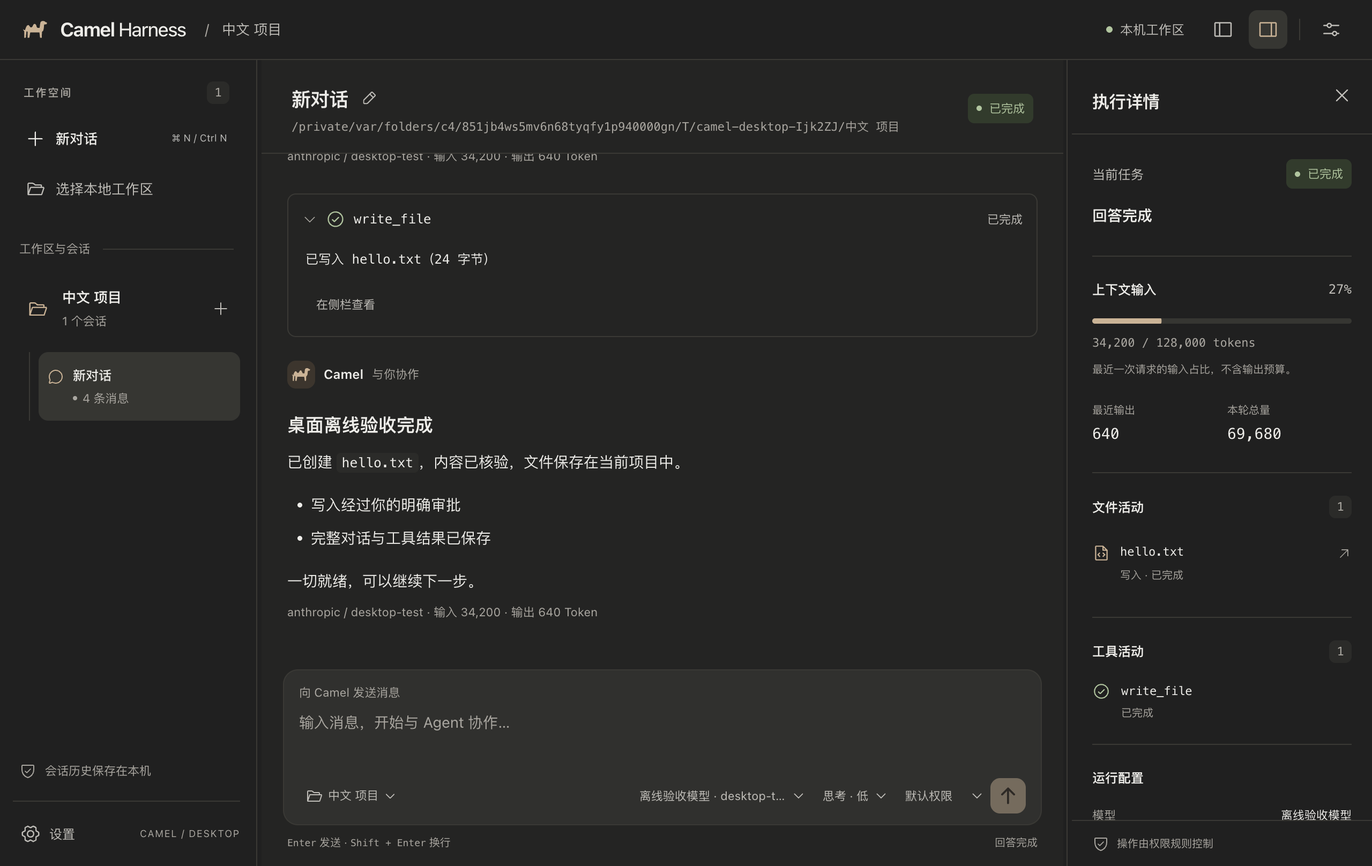
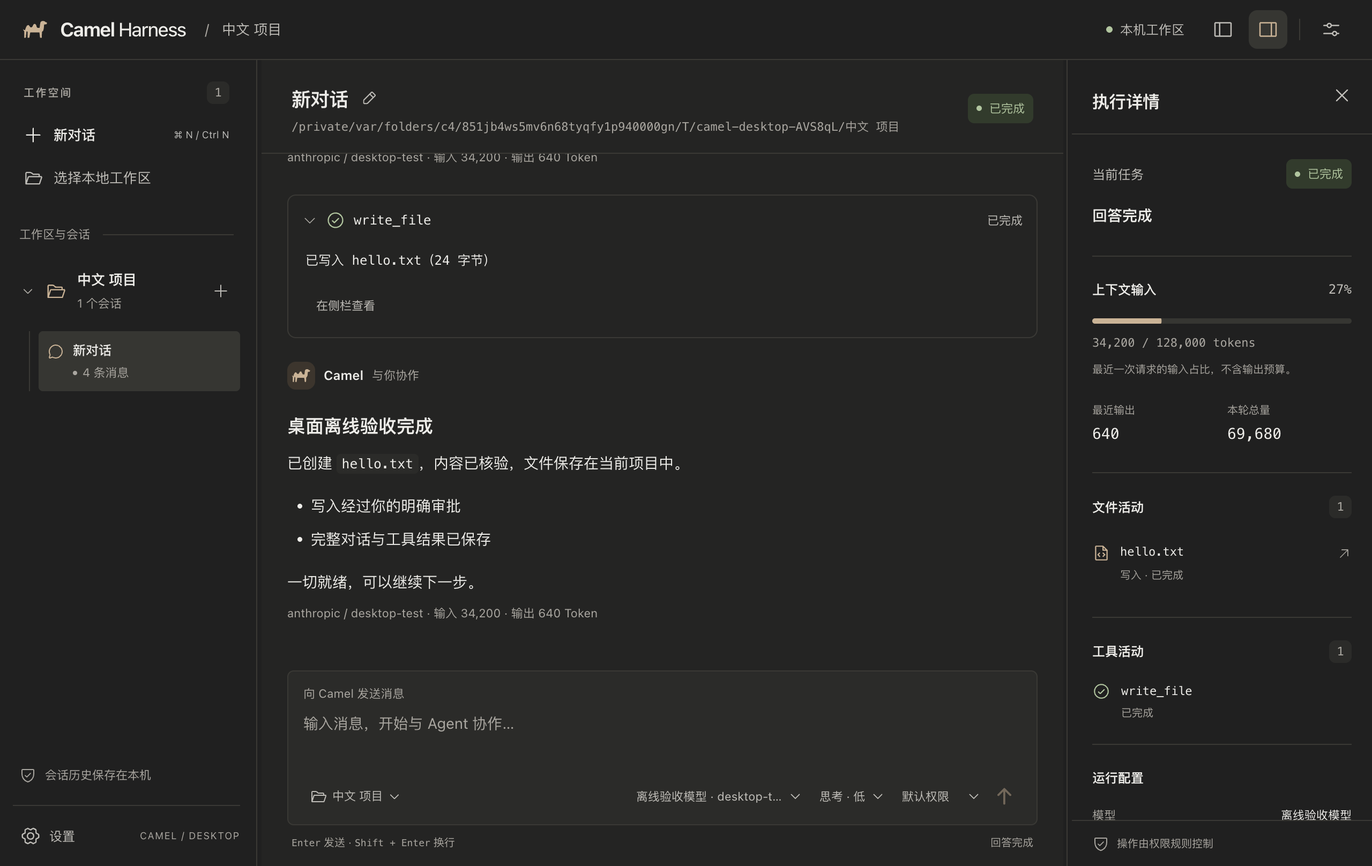
fix(desktop): 扁平化控件并稳定对话与设置布局

diff --git a/desktop/renderer/src/app/desktop.css b/desktop/renderer/src/app/desktop.css
@@ -1,5 +1,5 @@
 /* 三栏只承担阅读与导航；侧栏收起和动画不会改变任务生命周期。 */
-.app-shell { display: grid; grid-template-rows: 56px minmax(0, 1fr); height: 100%; }
+.app-shell { --conversation-gutter: 24px; display: grid; grid-template-rows: 56px minmax(0, 1fr); height: 100%; }
 .app-topbar { display: flex; align-items: center; gap: 18px; min-width: 0; padding: 0 20px; border-bottom: 1px solid var(--border); background: var(--canvas); }
 .app-brand { display: flex; align-items: center; gap: 10px; flex: 0 0 auto; }.app-brand strong { font-size: 18px; font-weight: 650; letter-spacing: -.035em; }.app-brand strong span { font-weight: 450; }
 .app-brand-mark { display: grid; place-items: center; width: 26px; height: 30px; color: var(--accent); }.app-brand-mark svg { width: 25px; height: 22px; }
@@ -20,46 +20,49 @@
 .divider-popover { position: fixed; top: 80px; margin: 0; width: 190px; padding: 12px; border: 1px solid var(--border); border-radius: 10px; background: var(--surface); color: var(--text); box-shadow: var(--shadow-dialog); }
 .divider-popover > span { display: block; margin-bottom: 6px; color: var(--secondary); font-size: 12px; }
 .divider-popover > div { display: flex; gap: 6px; }
-.composer-right select:hover { background: var(--surface-subtle); }
+.composer-right select:hover { background: var(--surface-hover); }
 .sidebar-container, .main-area, .inspector-host { min-width: 0; min-height: 0; background: var(--surface); }
+.sidebar button:active:not(:disabled), .composer-area button:active:not(:disabled) { transform: none; }
 .sidebar-container { background: var(--canvas); overflow: hidden; animation: nav-in var(--motion-enter) var(--ease-out); }
 .sidebar { display: flex; flex-direction: column; height: 100%; min-height: 0; padding: 20px 12px 12px; }
 .sidebar-heading { display: flex; justify-content: space-between; align-items: center; padding: 0 10px; margin-bottom: 12px; }
-.new-chat, .new-workspace { display: flex; align-items: center; gap: 10px; width: 100%; min-height: 40px; padding: 10px 12px; border-radius: 9px; font-size: 13px; }
+.new-chat, .new-workspace { display: flex; align-items: center; gap: 10px; width: 100%; min-height: 34px; padding: 6px 10px; border-radius: 4px; font-size: 13px; }
 .new-chat { color: var(--text); font-weight: 500; }.new-chat:hover { background: var(--surface-hover); }.shortcut-key { margin-left: auto; opacity: .75; font-size: 9px; font-weight: 400; white-space: nowrap; }
 .new-workspace { margin-top: 6px; color: var(--secondary); }.new-workspace:hover { background: var(--surface-hover); color: var(--text); }
 .workspace-heading { display: flex; align-items: center; gap: 12px; padding: 0 6px; margin: 27px 0 13px; color: var(--muted); font-size: 11px; }.sidebar-section-rule { height: 1px; flex: 1; background: var(--border); }
 .workspace-list { flex: 1; min-height: 0; overflow-y: auto; scrollbar-width: thin; scrollbar-color: var(--border) transparent; }
-.workspace-group { margin-bottom: 12px; }.workspace-row { display: flex; align-items: center; min-width: 0; padding: 5px 4px; border-radius: 10px; }.workspace-group.active .workspace-row { background: transparent; }
-.workspace-select { display: flex; align-items: center; flex: 1; gap: 9px; min-width: 0; padding: 8px 5px; text-align: left; border-radius: 7px; }.workspace-select:hover { color: var(--accent); }.workspace-folder { display: grid; place-items: center; width: 28px; height: 30px; color: var(--accent); }
+.workspace-group { margin-bottom: 12px; }.workspace-row { display: flex; align-items: center; min-width: 0; padding: 4px; border-radius: 4px; }.workspace-group.active .workspace-row { background: transparent; }
+.workspace-select { display: flex; align-items: center; flex: 1; gap: 9px; min-width: 0; padding: 6px 4px; text-align: left; border-radius: 4px; }.workspace-select:hover { color: var(--accent); }.workspace-folder { display: grid; place-items: center; width: 22px; height: 26px; color: var(--accent); }
 .workspace-copy, .session-copy { display: grid; gap: 3px; min-width: 0; }.workspace-copy strong { font-size: 13px; font-weight: 600; overflow: hidden; white-space: nowrap; text-overflow: ellipsis; }.workspace-copy small { color: var(--muted); font-size: 11px; }
 .workspace-chevron { color: var(--muted); transition: transform var(--motion-fast); }
 .workspace-select[aria-expanded="true"] .workspace-chevron { transform: rotate(90deg); }
 .workspace-action.icon-button { width: 28px; height: 30px; flex: 0 0 auto; }
-.session-list { display: grid; gap: 5px; margin-top: 7px; padding-left: 8px; border-left: 1px solid var(--border); margin-left: 15px; }
-.session-item { position: relative; display: flex; align-items: center; min-width: 0; border-radius: 9px; }.session-item:hover { background: var(--surface-subtle); }.session-item.active { background: var(--surface-hover); }
-.session-select { display: flex; align-items: flex-start; gap: 8px; min-width: 0; flex: 1; padding: 12px 8px; text-align: left; border-radius: 8px; }.session-select > svg { margin-top: 3px; color: var(--muted); }.session-item.active .session-select > svg { color: var(--accent); }
+.session-list { display: grid; gap: 3px; margin-top: 7px; padding-left: 8px; border-left: 1px solid var(--border); margin-left: 15px; }
+.session-item { position: relative; display: flex; align-items: center; min-width: 0; border-radius: 4px; }.session-item:hover { background: var(--surface-subtle); }.session-item.active { background: var(--surface-hover); }
+.session-select { display: flex; align-items: flex-start; gap: 8px; min-width: 0; flex: 1; padding: 8px; text-align: left; border-radius: 4px; }.session-select > svg { margin-top: 3px; color: var(--muted); }.session-item.active .session-select > svg { color: var(--accent); }
 .session-copy strong { font-size: 12px; font-weight: 500; white-space: nowrap; overflow: hidden; text-overflow: ellipsis; }.session-status { display: flex; align-items: center; gap: 5px; color: var(--muted); font-size: 11px; }
 .session-dot { width: 4px; height: 4px; border-radius: 50%; background: var(--muted); }.session-dot.running { background: var(--accent); }.session-dot.waiting { background: var(--warning); }.session-dot.unread { background: var(--success); }
-.session-actions { display: none; align-items: center; position: absolute; right: 4px; top: 4px; height: 28px; padding-left: 6px; border-radius: 7px; background: var(--surface-subtle); }.session-item.active .session-actions { background: var(--surface-hover); }.session-item:hover .session-actions, .session-item:focus-within .session-actions { display: flex; }.session-actions .icon-button { width: 26px; height: 28px; }.session-delete:hover { color: var(--danger); }
+.session-actions { display: none; align-items: center; position: absolute; right: 4px; top: 4px; height: 28px; padding-left: 6px; border-radius: 4px; background: var(--surface-subtle); }.session-item.active .session-actions { background: var(--surface-hover); }.session-item:hover .session-actions, .session-item:focus-within .session-actions { display: flex; }.session-actions .icon-button { width: 26px; height: 28px; }.session-delete:hover { color: var(--danger); }
 .empty-workspaces { display: grid; justify-items: center; gap: 10px; padding: 32px 6px; color: var(--muted); text-align: center; }.empty-workspaces strong { font-size: 13px; font-weight: 500; }.empty-workspaces p { font-size: 12px; line-height: 1.9; }
-.sidebar-local-note { display: flex; align-items: center; gap: 8px; padding: 15px 6px 19px; color: var(--muted); font-size: 11px; }.sidebar-footer { display: flex; justify-content: space-between; align-items: center; padding-top: 12px; border-top: 1px solid var(--border); }.settings-entry { display: flex; align-items: center; gap: 8px; min-height: 36px; padding: 6px 7px; border-radius: 8px; font-size: 12px; color: var(--secondary); }.settings-entry:hover { background: var(--surface-hover); }.sidebar-note { font-size: 9px; letter-spacing: .08em; color: var(--muted); }
+.sidebar-local-note { display: flex; align-items: center; gap: 8px; padding: 15px 6px 19px; color: var(--muted); font-size: 11px; }.sidebar-footer { display: flex; justify-content: space-between; align-items: center; padding-top: 12px; border-top: 1px solid var(--border); }.settings-entry { display: flex; align-items: center; gap: 8px; min-height: 32px; padding: 4px 7px; border-radius: 4px; font-size: 12px; color: var(--secondary); }.settings-entry:hover { background: var(--surface-hover); }.sidebar-note { font-size: 9px; letter-spacing: .08em; color: var(--muted); }
 
-.main-area { display: flex; flex-direction: column; height: 100%; overflow: hidden; position: relative; transform-origin: left center; }
+.main-area { container-type: inline-size; display: flex; flex-direction: column; height: 100%; overflow: hidden; position: relative; transform-origin: left center; }
+/* 按主栏内容宽度计算，系统滚动条占位也不改变消息和输入框的对齐。 */
+.main-area .messages-inner, .composer-area { width: min(760px, calc(100cqw - var(--conversation-gutter) * 2)); margin-left: max(var(--conversation-gutter), calc((100cqw - 760px) / 2)); margin-right: 0; }
 .main-header { display: flex; align-items: center; gap: 12px; padding: 20px 28px 16px; border-bottom: 1px solid var(--border); flex: 0 0 auto; }
 .main-header-meta { min-width: 0; flex: 1; }.main-header-title-row { display: flex; align-items: center; gap: 7px; }.main-header-title { margin: 2px 0 0; font-size: 18px; line-height: 1.6; font-weight: 600; letter-spacing: -.025em; overflow: hidden; text-overflow: ellipsis; white-space: nowrap; }.header-rename.icon-button { height: 26px; width: 26px; flex: 0 0 auto; }.main-header-sub { max-width: 100%; margin-top: 3px; color: var(--muted); font: 11px/1.5 var(--font-mono); overflow: hidden; text-overflow: ellipsis; white-space: nowrap; }
 .run-status { display: inline-flex; align-items: center; gap: 7px; flex: 0 0 auto; white-space: nowrap; padding: 5px 8px; border-radius: 6px; font-size: 11px; color: var(--secondary); background: var(--surface-subtle); }.run-status-dot { width: 5px; height: 5px; border-radius: 50%; background: currentColor; }.run-status[data-state="running"] { color: var(--success); background: var(--success-bg); }.run-status[data-state="running"][role="status"] .run-status-dot { animation: soft-pulse 1500ms ease-in-out infinite; }.run-status[data-state="waiting"] { color: var(--warning); background: var(--warning-bg); }.run-status[data-state="failed"] { color: var(--danger); background: var(--danger-bg); }.run-status[data-state="completed"] { color: var(--success); background: var(--success-bg); }
 .model-onboarding { display: flex; justify-content: space-between; align-items: center; gap: 16px; padding: 14px 18px; margin: 18px 24px 0; border: 1px solid var(--border); border-radius: 12px; background: var(--surface-subtle); }.model-onboarding strong { font-size: 13px; }.model-onboarding p { margin: 3px 0 0; font-size: 12px; color: var(--secondary); }.model-onboarding button { flex: 0 0 auto; }
 .messages { flex: 1; min-height: 0; overflow-y: auto; overflow-x: hidden; scrollbar-width: thin; scrollbar-color: var(--border) transparent; }.messages-inner { width: calc(100% - 48px); max-width: 760px; margin: 0 auto; padding: 26px 0 10px; }.messages-inner > :last-child { animation: message-in var(--motion-enter) var(--ease-out); }
-.message { margin-bottom: 26px; }.message-content { white-space: pre-wrap; overflow-wrap: anywhere; font-size: 14px; line-height: 1.85; }.markdown-body { white-space: normal; }.message.user { display: flex; flex-direction: column; align-items: flex-end; }.message.user .message-content { max-width: 90%; padding: 12px 17px; border-radius: 14px; background: var(--surface-subtle); }.message-meta { margin-top: 8px; font-size: 11px; color: var(--muted); }.assistant-identity { display: flex; align-items: center; gap: 8px; margin-bottom: 12px; }.assistant-identity > span { display: grid; place-items: center; width: 26px; height: 26px; border-radius: 8px; background: var(--accent-soft); color: var(--accent); }.assistant-identity svg { width: 19px; height: 17px; }.assistant-identity strong { font-size: 12px; font-weight: 600; }.assistant-identity small { color: var(--muted); font-size: 11px; }
+.message { margin-bottom: 26px; }.message-content { white-space: pre-wrap; overflow-wrap: anywhere; font-size: 14px; line-height: 1.85; }.markdown-body { white-space: normal; }.message.user { display: flex; flex-direction: column; align-items: flex-end; }.message.user .message-content { max-width: 90%; padding: 12px 17px; border-radius: 6px; background: var(--surface-subtle); }.message-meta { margin-top: 8px; font-size: 11px; color: var(--muted); }.assistant-identity { display: flex; align-items: center; gap: 8px; margin-bottom: 12px; }.assistant-identity > span { display: grid; place-items: center; width: 26px; height: 26px; border-radius: 8px; background: var(--accent-soft); color: var(--accent); }.assistant-identity svg { width: 19px; height: 17px; }.assistant-identity strong { font-size: 12px; font-weight: 600; }.assistant-identity small { color: var(--muted); font-size: 11px; }
 .waiting-dots { color: var(--accent); font-size: 22px; letter-spacing: .16em; animation: soft-pulse 1200ms ease-in-out infinite; }
 .welcome { display: flex; flex-direction: column; align-items: center; padding: 10px 0 12px; text-align: center; }.welcome-camel { width: 40px; height: 34px; margin: 8px 0 18px; color: var(--accent); }.welcome h2 { margin: 10px 0; font-size: clamp(24px, 2.3vw, 28px); font-weight: 550; letter-spacing: -.035em; }.welcome > p { margin: 0; color: var(--secondary); font-size: 13px; line-height: 1.75; }.welcome-prompts { display: grid; grid-template-columns: repeat(3, minmax(0, 1fr)); gap: 9px; width: 100%; margin-top: 20px; }.welcome-prompts button { display: flex; align-items: flex-start; gap: 9px; padding: 12px 11px; min-width: 0; border-radius: 8px; color: var(--secondary); text-align: left; }.welcome-prompts button:hover { background: var(--surface-subtle); color: var(--accent); }.welcome-prompts button > svg { margin-top: 2px; }.welcome-prompts button > svg:last-child { margin-left: auto; }.welcome-prompts span { color: var(--text); font-size: 12px; font-weight: 550; }.welcome-prompts small { display: block; margin-top: 4px; color: var(--muted); font-size: 11px; font-weight: 400; white-space: nowrap; }.welcome-action { display: inline-flex; align-items: center; gap: 7px; margin-top: 10px; padding: 6px 10px; border-radius: 6px; color: var(--muted); font-size: 11px; }.welcome-action:hover { color: var(--accent); background: var(--surface-subtle); }
 .thinking-message { margin: 0 0 16px; color: var(--muted); }.thinking-message > summary { display: flex; gap: 6px; align-items: center; width: fit-content; cursor: pointer; list-style: none; font-size: 12px; padding: 4px 0; }.thinking-chevron { transition: transform var(--motion-fast); }.thinking-message[open] .thinking-chevron { transform: rotate(90deg); }.thinking-detail { margin-top: 8px; padding: 0 12px; border-left: 2px solid var(--border); max-height: 220px; overflow-y: auto; font-size: 12px; line-height: 1.85; white-space: pre-wrap; animation: message-in var(--motion-base) var(--ease-out); }.thinking-shimmer { color: var(--accent); }
 .tool-message { margin: 8px 0 22px; overflow: hidden; border: 1px solid var(--border); border-radius: 8px; background: transparent; }.tool-message > summary { display: flex; align-items: center; gap: 8px; min-width: 0; min-height: 46px; padding: 11px 13px; cursor: pointer; list-style: none; font-size: 12px; }.tool-message > summary:hover { background: var(--surface-hover); }.tool-message strong { font-family: var(--font-mono); font-size: 12px; font-weight: 500; overflow-wrap: anywhere; }.tool-chevron { color: var(--muted); transition: transform var(--motion-fast); }.tool-message[open] .tool-chevron { transform: rotate(90deg); }.tool-symbol { color: var(--success); }.tool-state { margin-left: auto; color: var(--secondary); font-size: 11px; white-space: nowrap; }.tool-message.error .tool-symbol, .tool-message.error .tool-state { color: var(--danger); }.tool-detail { padding: 4px 16px 16px; white-space: pre-wrap; overflow-wrap: anywhere; font: 12px/1.8 var(--font-mono); max-height: 280px; overflow: auto; }.tool-open { display: inline-flex; align-items: center; min-height: 30px; margin: 0 16px 14px; padding: 4px 10px; border-radius: 6px; color: var(--secondary); font-size: 11px; }.tool-open:hover { color: var(--accent); background: var(--surface-subtle); }
 .approval-message { margin: 8px 0 24px; padding: 17px; border: 1px solid var(--warning-border); border-radius: 13px; background: var(--warning-bg); }.approval-message-head { display: flex; align-items: center; gap: 10px; }.approval-message-icon { display: grid; place-items: center; width: 33px; height: 33px; border-radius: 10px; color: var(--warning); background: var(--surface); }.approval-message-head > div { flex: 1; min-width: 0; display: grid; gap: 2px; }.approval-message-head strong { font-size: 13px; }.approval-message-head small { color: var(--secondary); font: 11px var(--font-mono); overflow-wrap: anywhere; }.approval-message-status { font-size: 11px; color: var(--warning); }.approval-message p { font-size: 13px; margin: 14px 0; overflow-wrap: anywhere; }.approval-execution strong { font-size: 11px; color: var(--secondary); }.approval-execution pre, .approval-arguments pre { margin: 6px 0 14px; padding: 10px 12px; border: 1px solid var(--border); border-radius: 8px; background: var(--surface); white-space: pre-wrap; overflow-wrap: anywhere; font: 12px/1.7 var(--font-mono); }.approval-arguments { font-size: 12px; color: var(--secondary); }.approval-arguments summary { padding: 5px 0; cursor: pointer; }.approval-arguments pre { max-height: 220px; overflow: auto; }.approval-message-actions { display: flex; justify-content: flex-end; gap: 8px; margin-top: 16px; }.approval-message-actions button { min-height: 34px; padding: 7px 14px; border: 1px solid var(--control-border); border-radius: 7px; background: var(--surface); color: var(--text); font-size: 12px; }.approval-message-actions .allow { background: var(--accent); border-color: var(--accent); color: var(--on-accent); }.approval-approved, .approval-completed { background: var(--success-bg); border-color: var(--success-border); }.approval-approved .approval-message-status, .approval-completed .approval-message-status { color: var(--success); }.approval-rejected, .approval-failed { background: var(--danger-bg); border-color: var(--danger-border); }.approval-rejected .approval-message-status, .approval-failed .approval-message-status { color: var(--danger); }
 .subagent-summaries { display: grid; gap: 9px; margin: 10px 0 23px; }.subagent-summary { display: grid; gap: 5px; padding: 14px 16px; text-align: left; border-left: 2px solid var(--border); border-radius: 0 8px 8px 0; }.subagent-summary:hover { background: var(--surface-subtle); }.subagent-summary strong { color: var(--accent); font-size: 12px; }.subagent-summary span { font-size: 13px; overflow-wrap: anywhere; }.subagent-summary small { color: var(--muted); font-size: 11px; }
-.composer-area { flex: 0 0 auto; padding: 8px 20px 14px; }.composer-box { padding: 12px 14px 10px; border: 1px solid var(--border); border-radius: 14px; background: var(--surface-raised); transition: border-color var(--motion-fast), box-shadow var(--motion-fast); }.composer-box:focus-within { border-color: var(--accent); box-shadow: 0 0 0 3px var(--accent-soft); }.composer-box:has(textarea:focus-visible) { outline: 2px solid var(--accent); outline-offset: 2px; }
-.composer-label { display: block; margin-bottom: 3px; font-size: 11px; color: var(--muted); }.composer-box textarea { display: block; width: 100%; min-height: 58px; max-height: 180px; padding: 4px 0; border: 0; outline: 0; resize: none; background: transparent; color: var(--text); font-size: 14px; line-height: 1.7; }.composer-box textarea:focus-visible { outline: none; }.composer-box textarea::placeholder { color: var(--muted); }.composer-toolbar { display: flex; align-items: center; flex-wrap: wrap; gap: 9px; margin-top: 10px; }.composer-directory { display: inline-flex; align-items: center; gap: 5px; min-height: 31px; max-width: 32%; padding: 5px 6px; border-radius: 6px; color: var(--secondary); font-size: 11px; }.composer-directory span { overflow: hidden; text-overflow: ellipsis; white-space: nowrap; }.composer-directory:hover { background: var(--surface-subtle); color: var(--accent); }.composer-right { display: flex; flex: 1; justify-content: flex-end; align-items: center; gap: 6px; flex-wrap: wrap; }.composer-right select { min-width: 0; max-width: 115px; min-height: 31px; padding: 4px 5px; border: 1px solid transparent; border-radius: 6px; background: transparent; color: var(--secondary); font-size: 11px; text-overflow: ellipsis; }.composer-right .model-select { max-width: 165px; }.composer-right .send-button, .composer-right .stop-button { display: inline-grid; place-items: center; width: 33px; height: 33px; padding: 0; border-radius: 9px; flex: 0 0 auto; }.send-button { background: var(--accent); color: var(--on-accent); }.stop-button { color: var(--danger); background: var(--danger-bg); }.composer-right > button:not(.send-button, .stop-button) { display: inline-flex; gap: 5px; align-items: center; padding: 5px 8px; font-size: 12px; border-radius: 6px; background: var(--surface-subtle); }.composer-hint { display: flex; align-items: center; justify-content: space-between; gap: 8px; margin: 8px 4px 0; color: var(--muted); font-size: 10px; }.composer-hint > span:last-child { max-width: 42%; white-space: nowrap; overflow: hidden; text-overflow: ellipsis; }.composer-hint kbd { font-size: 9px; }.status-running { color: var(--accent); }
+.composer-area { flex: 0 0 auto; padding: 8px 0 14px; }.composer-box { padding: 12px 14px 10px; border: 1px solid var(--border); border-radius: 6px; background: var(--surface-subtle); transition: border-color var(--motion-fast); }.composer-box:focus-within { border-color: var(--accent); }.composer-box:has(textarea:focus-visible) { outline: 2px solid var(--accent); outline-offset: -1px; }
+.composer-label { display: block; margin-bottom: 3px; font-size: 11px; color: var(--muted); }.composer-box textarea { display: block; width: 100%; min-height: 58px; max-height: 180px; padding: 4px 0; border: 0; outline: 0; resize: none; background: transparent; color: var(--text); font-size: 14px; line-height: 1.7; }.composer-box textarea:focus-visible { outline: none; }.composer-box textarea::placeholder { color: var(--muted); }.composer-toolbar { display: flex; align-items: center; flex-wrap: wrap; gap: 9px; margin-top: 10px; }.composer-directory { display: inline-flex; align-items: center; gap: 5px; min-height: 31px; max-width: 32%; padding: 5px 6px; border-radius: 6px; color: var(--secondary); font-size: 11px; }.composer-directory span { overflow: hidden; text-overflow: ellipsis; white-space: nowrap; }.composer-directory:hover { background: var(--surface-subtle); color: var(--accent); }.composer-right { display: flex; flex: 1; justify-content: flex-end; align-items: center; gap: 6px; flex-wrap: wrap; }.composer-right select { min-width: 0; max-width: 115px; min-height: 31px; padding: 4px 5px; border: 1px solid transparent; border-radius: 6px; background: transparent; color: var(--secondary); font-size: 11px; text-overflow: ellipsis; }.composer-right .model-select { max-width: 165px; }.composer-right .send-button, .composer-right .stop-button { display: inline-grid; place-items: center; width: 32px; height: 32px; padding: 0; border-radius: 4px; flex: 0 0 auto; }.send-button { color: var(--accent); }.send-button:hover:not(:disabled) { background: var(--accent-soft); }.stop-button { color: var(--danger); }.stop-button:hover:not(:disabled) { background: var(--danger-bg); }.composer-right > button:not(.send-button, .stop-button) { display: inline-flex; gap: 5px; align-items: center; padding: 5px 8px; font-size: 12px; border-radius: 6px; background: var(--surface-subtle); }.composer-hint { display: flex; align-items: center; justify-content: space-between; gap: 8px; margin: 8px 4px 0; color: var(--muted); font-size: 10px; }.composer-hint > span:last-child { max-width: 42%; white-space: nowrap; overflow: hidden; text-overflow: ellipsis; }.composer-hint kbd { font-size: 9px; }.status-running { color: var(--accent); }
 
 .inspector-host { background: var(--canvas); overflow: hidden; animation: panel-in var(--motion-enter) var(--ease-out); }
 .detail-panel { animation: message-in var(--motion-base) var(--ease-out); display: flex; flex-direction: column; position: relative; width: 100%; height: 100%; min-height: 0; background: transparent; color: var(--text); }
@@ -78,8 +81,9 @@
   .inspector-host { position: fixed; right: 12px; top: 68px; bottom: 12px; width: 360px; z-index: 31; box-shadow: var(--shadow-dialog); }
 }
 @media (max-width: 1000px) {
+  .app-shell { --conversation-gutter: 20px; }
   .app-topbar { gap: 18px; }.app-brand strong { font-size: 16px; }.local-indicator { display: none; }
-  .main-header { padding: 18px 20px 15px; }.messages-inner { width: calc(100% - 40px); }
+  .main-header { padding: 18px 20px 15px; }
 }
 @media (max-height: 740px) {
   .welcome { padding-top: 2px; }.welcome-camel { width: 32px; height: 28px; margin-bottom: 10px; }.welcome h2 { font-size: 26px; }.welcome-prompts { margin-top: 18px; }.welcome-action { margin-top: 10px; }

diff --git a/desktop/renderer/src/app/styles.css b/desktop/renderer/src/app/styles.css
@@ -68,14 +68,17 @@ h1, h2, h3, p { margin-top: 0; }
 .error-toast { position: fixed; right: 28px; bottom: 24px; z-index: 60; display: flex; align-items: flex-start; gap: 12px; max-width: min(560px, calc(100vw - 48px)); padding: 16px 18px; border: 1px solid var(--danger-border); border-radius: 12px; color: var(--danger); background: var(--danger-bg); box-shadow: var(--shadow-dialog); animation: message-in var(--motion-base) var(--ease-out); }
 .error-toast > span { overflow-wrap: anywhere; }.error-toast button { padding: 2px; color: inherit; }
 
-.settings-dialog { width: 820px; overflow: hidden; }
-.settings-header { padding: 24px 26px 20px; border-bottom: 1px solid var(--border); }
-.settings-body { display: grid; grid-template-columns: 150px minmax(0, 1fr); min-height: 0; }
-.settings-nav { display: flex; flex-direction: column; gap: 5px; padding: 20px 12px; background: var(--surface-subtle); border-right: 1px solid var(--border); }
-.settings-nav-item { min-height: 39px; padding: 9px 12px; border-radius: 8px; color: var(--secondary); text-align: left; font-size: 13px; }
+.settings-dialog { width: 820px; height: min(680px, calc(100dvh - 96px)); margin: 48px auto; overflow: hidden; }
+.settings-dialog[open] { display: flex; flex-direction: column; }
+.settings-header { flex: 0 0 auto; align-items: center; padding: 20px 24px; border-bottom: 1px solid var(--border); }
+.settings-header h2 { margin: 0; font-size: 18px; }
+.settings-body { display: grid; grid-template-columns: 150px minmax(0, 1fr); flex: 1; min-height: 0; overflow: hidden; }
+.settings-nav { display: flex; flex-direction: column; gap: 4px; padding: 20px 12px; min-height: 0; overflow-y: auto; background: var(--surface-subtle); border-right: 1px solid var(--border); }
+.settings-nav-item { min-height: 34px; padding: 6px 10px; border-radius: 4px; color: var(--secondary); text-align: left; font-size: 13px; }
 .settings-nav-item:hover { background: var(--surface-hover); }
-.settings-nav-item.active { color: var(--accent); background: var(--accent-soft); font-weight: 600; }
-.settings-content { padding: 24px 26px; max-height: min(620px, calc(100dvh - 150px)); overflow-y: auto; }
+.settings-nav-item.active { color: var(--text); background: var(--surface-hover); font-weight: 550; }
+.settings-nav-item:active:not(:disabled) { transform: none; }
+.settings-content { min-width: 0; min-height: 0; padding: 24px 26px; overflow-y: auto; scrollbar-gutter: stable; }
 .settings-empty { margin: 0; padding: 32px; color: var(--secondary); }
 .settings-section-heading, .settings-editor-head { display: flex; align-items: flex-start; justify-content: space-between; gap: 14px; }
 .settings-section-heading h3, .settings-editor-head h3, .settings-placeholder h3, .appearance-settings h3 { margin: 0; font-size: 15px; font-weight: 600; }

diff --git a/desktop/renderer/src/features/settings/SettingsDialog.tsx b/desktop/renderer/src/features/settings/SettingsDialog.tsx
@@ -45,7 +45,6 @@ export function SettingsDialog({
     <ModalDialog className="settings-dialog" labelledBy="settings-title" onClose={onClose}>
         <header className="settings-header">
           <div>
-            <span className="eyebrow">PREFERENCES</span>
             <h2 id="settings-title">设置</h2>
           </div>
           <button ref={closeRef} type="button" className="modal-close icon-button" onClick={onClose} aria-label="关闭设置"><X size={20} aria-hidden="true" /></button>
@@ -68,7 +67,7 @@ export function SettingsDialog({
                 </button>
               ))}
             </nav>
-            <div className="settings-content">
+            <div className="settings-content" key={section}>
               {section === "appearance" && (
                 <section className="appearance-settings">
                   <h3>外观与操作</h3>

diff --git a/docs/方案设计/桌面客户端设计.md b/docs/方案设计/桌面客户端设计.md
@@ -35,6 +35,8 @@ DesktopApp 组合导航、消息、输入和详情，沿用现有事件投影与
 - 1280×840 默认窗口下，左右栏分别为 236 / 280 CSS px。两条分隔线可拖动：左栏 200–360 px，右栏 240–440 px，中栏至少保留 420 px；有效上限随相邻面板与窗口宽度收紧。查看工具或子任务沿用右栏宽度。长消息和代码在各自阅读区滚动，输入区保持可达。
 - 视口窄于 1180 px 时收起详情。手动打开使用原生 `dialog`，约束焦点并支持 Escape，关闭后聚焦详情开关。设置、重命名和删除确认同样使用原生模态语义。
 - 新对话、欢迎建议、次要操作和输入区选项使用无底色的轻量控件，悬停提供柔和反馈；审批确认、发送与设置保存保留主要操作层级。导航、工具、审批和输入操作统一使用 Phosphor 线性矢量图标；Camel 标志复用应用已有 SVG 路径。使用系统中文与等宽字体，不引入外部字体请求。
+- 左侧按钮使用 4 px 圆角和紧凑留白，输入框使用 6 px 圆角与次级平面底色，按压不再缩放；键盘焦点保留可见描边。聊天记录与输入框按主栏容器宽度共享 24 px 边距、760 px 阅读上限；窄窗口边距为 20 px，系统滚动条占位不改变对齐。
+- 设置弹窗保持水平居中，顶部距视口 48 px，高度为 `min(680px, 视口高度 - 96px)`。标题、关闭按钮和左侧分类不随内容滚动；右侧独立滚动并预留滚动条空间，切换分类从顶部展示。加载、分类切换和展开编辑器不改变弹窗位置及高度。
 
 | 语义 | 暖白浅色 | 中性夜色 |
 | --- | --- | --- |

diff --git a/CHANGELOG.md b/CHANGELOG.md
@@ -7,6 +7,7 @@
 - **工程整理**：共享原生桥接及菜单动作类型，设置 Hook 更名为 `useSettings`；后端产物与 PyInstaller 中间文件集中到 `desktop/build/`，同步打包路径与目录说明。
 - **运行保护**：临时凭据经管道传递，验证窗口来源、Host 与 Origin；退出确认期间暂停新任务，取消后恢复接收，确认后取消 Agent 并清理资源，不自动重放工具。
 - **简洁分栏**：界面改为中性底色、细分隔线和轻量操作，保留暖沙点缀；两侧支持拖动调整、键盘微调、点击调整与双击复位，缩窗保留最小阅读宽度及会话内尺寸偏好。
+- **视图稳定**：左侧按钮与输入框采用更小圆角和平面反馈；输入框与聊天记录共用宽度、边距和阅读上限。设置弹窗靠上固定位置与高度，仅内容区滚动，切换分类或展开长表单不再重新居中跳动。
 - **工作区折叠**：修复左侧工作区展开后无法收起的问题；折叠和展开保留当前会话、草稿与运行状态，切换或新建会话时重新展示分组，增加展开箭头和文件夹状态反馈。
 - **沙漠工作台**：按左侧工作区、中间对话、右侧执行详情重做三栏布局，提供暖沙与沙漠夜色主题、统一矢量图标、欢迎草稿建议、面板位置补间、减少动态效果支持和原生模态焦点管理；右栏仅投影真实用量、工具与文件活动，保留未知和失败语义。
 - **界面体验**：新增中性明暗主题、系统跟随、可收起侧栏、次要用量菜单、工具详情、首次模型配置引导和快捷键，主题保存在用户配置。

diff --git a/tests/README.md b/tests/README.md
@@ -11,7 +11,7 @@
 | 文件与 Shell | `integration/test_file_mutations.py`、`test_shell_output.py`、`test_tool_storage_failure.py` | 原子替换、排队/在途取消、进程树清理及归档失败后不重复副作用 |
 | 会话与记忆 | `integration/test_session_*`、`test_jsonl_session_store.py`、`test_memory_manager.py`、`test_memory_store.py`、`test_migrate_memory.py` | 分支重放、损坏日志、跨进程竞争、记忆字符上限、权限、路径边界和旧数据迁移 |
 | 渲染界面与 HTTP | HTTP/SSE、设置与多会话测试，`desktop/tests/renderer/` | 请求契约、断连取消、审批与并行会话隔离 |
-| 桌面入口 | `integration/test_desktop_backend.py`、`desktop/tests/`、`desktop/scripts/smoke.cjs` | 临时鉴权、管道退出、确认门控、原生目录、双厂商 SDK 打包、三栏几何、分隔线拖动/键盘/点击调整与尺寸约束、工作区折叠保留会话/草稿/运行、原生模态焦点、减少动态效果、真实活动投影与未完成消息不落盘 |
+| 桌面入口 | `integration/test_desktop_backend.py`、`desktop/tests/`、`desktop/scripts/smoke.cjs` | 临时鉴权、管道退出、确认门控、原生目录、双厂商 SDK 打包、三栏几何、分隔线拖动/键盘/点击调整与尺寸约束、工作区折叠保留会话/草稿/运行、消息输入等宽、设置分类及长表单头部稳定、原生模态焦点、减少动态效果、真实活动投影与未完成消息不落盘 |
 | 模块依赖 | `uv run lint-imports`、`unit/test_desktop_architecture.py` | Python 单向依赖和前端 `app → features → shared` 边界 |
 
 ## 精简原则

diff --git a/desktop/README.md b/desktop/README.md
@@ -29,6 +29,10 @@ Release 附带 `SHA256SUMS.txt`。macOS 使用 `shasum -a 256 <安装包>`，Win
 
 界面采用暖白 / 中性夜色的简洁三栏布局：左侧工作区与会话、中间对话和输入、右侧真实执行概览。拖动两条分隔线可调整宽度，双击复位；聚焦后可用方向键微调，点击可打开宽度操作。宽度在当前应用会话内保留，两侧可独立收起；窄窗口的详情作为模态面板打开。动效响应系统“减少动态效果”偏好，欢迎建议只填写草稿。
 
+输入框与聊天记录等宽，侧栏按钮采用紧凑的平面反馈。设置弹窗保持顶部位置和高度，标题与分类固定，内容独立滚动；切换分类不会上下跳动。
+
+[查看设置界面预览](../docs/images/desktop-settings.png)
+
 快捷键：新对话 `⌘/Ctrl+N`、打开项目 `⌘/Ctrl+O`、切换侧栏 `⌘/Ctrl+B`、设置 `⌘/Ctrl+,`。首版不提供托盘后台任务或自动更新。
 
 应用内置自己的 Python 后端；执行项目命令所需的 Git、语言环境、编译器及可选 MCP 程序仍由用户按需安装。

diff --git a/docs/路书.md b/docs/路书.md
@@ -9,6 +9,7 @@
 ## 已完成
 
 - [x] 简洁分栏：减弱大面积按钮、改为贯通式平面布局，左右分隔线支持拖动、键盘及点击微调，缩窗保留宽度偏好
+- [x] 视图稳定：侧栏与输入采用平面反馈，消息和输入等宽对齐；设置头部及分类固定，仅内容滚动，消除分类切换时的重新居中跳动
 - [x] 沙漠三栏工作台：全局顶栏、工作区导航、对话与执行详情，明暗主题配对、可中断面板动效、原生模态键盘操作和真实活动投影
 
 - [x] 桌面工程目录整理：共享桥接契约、统一设置 Hook 命名，后端产物与打包中间文件集中到 `desktop/build/`
